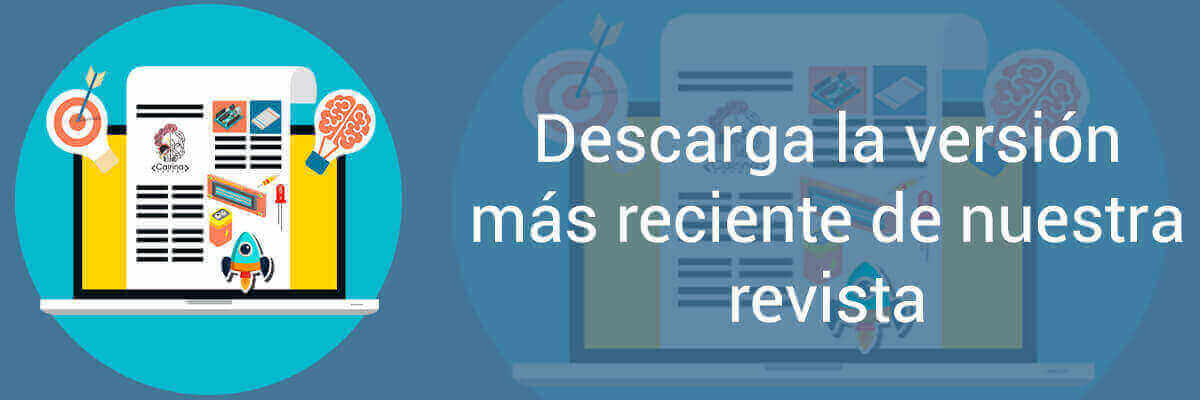
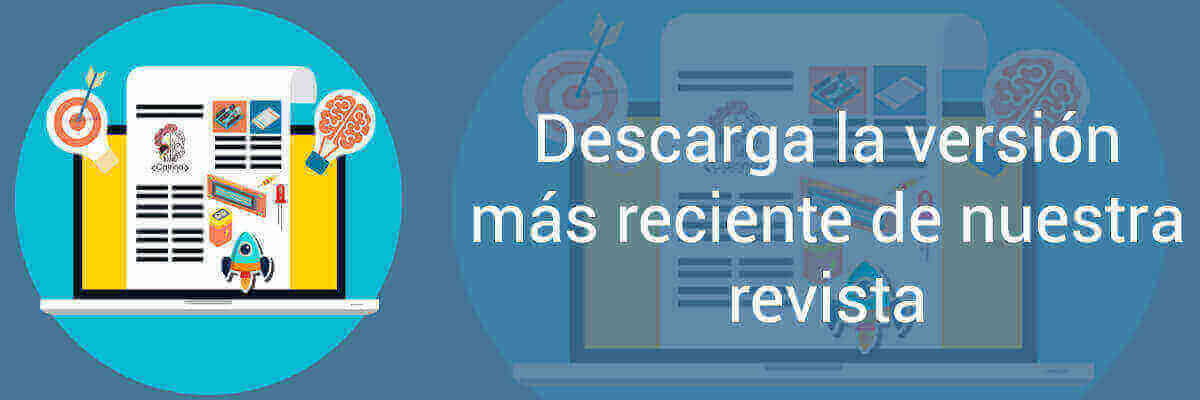
css-compres

diff --git a/index.html b/index.html
@@ -167,6 +167,6 @@
         gestos.on('swiperight', showMenu);
 	
 </script>
-<link rel="stylesheet" href="css/catrina.css"/>
+<link rel="stylesheet" href="css/catrina.min.css"/>
 </body>
 </html>
